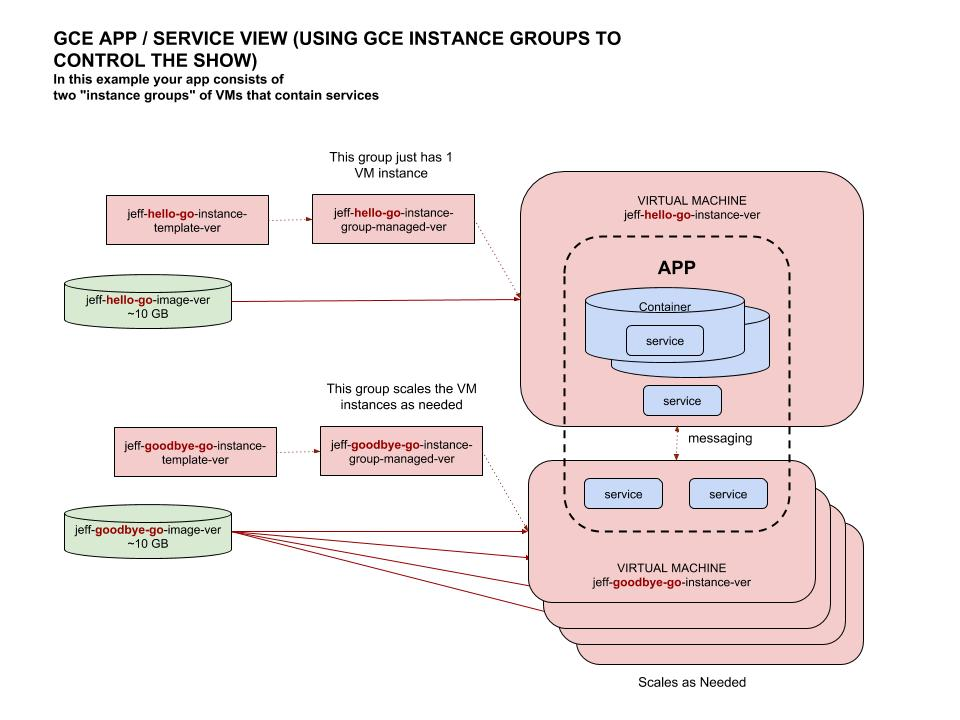
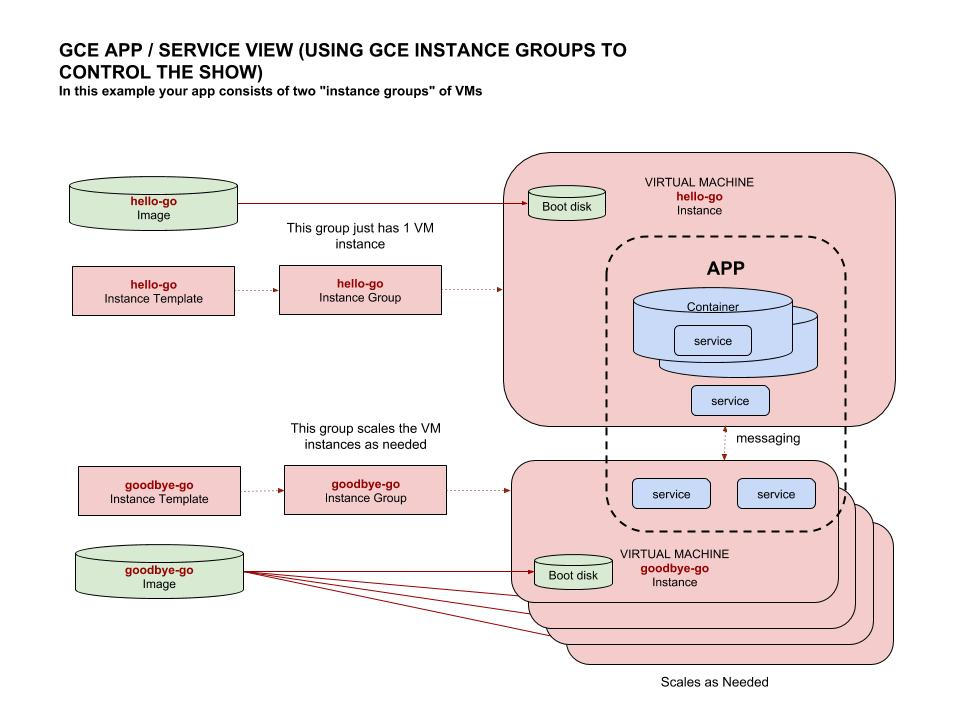
updated gce

diff --git a/software/infrastructure-as-a-service/cloud-services-compute/google-cloud-platform-cheat-sheet/google-compute-engine.md b/software/infrastructure-as-a-service/cloud-services-compute/google-cloud-platform-cheat-sheet/google-compute-engine.md
@@ -3,7 +3,7 @@
 `google compute engine (gce)` _which is part of
 [gcp](https://github.com/JeffDeCola/my-cheat-sheets/tree/master/software/infrastructure-as-a-service/cloud-services-compute/google-cloud-platform-cheat-sheet)
 provides high performance scalable Virtual Machine (VM) instances
-that you can use to run a App/service._
+that you can use to run an App/service._
 
 Documentation and reference,
 
@@ -17,7 +17,7 @@ Documentation and reference,
 * [Quickstart using console](https://cloud.google.com/compute/docs/quickstart-linux)
 * [Google Compute Engine SDK Reference (gcloud compute)](https://cloud.google.com/sdk/gcloud/reference/compute/)
 * A list of
-  [Basic gce commands](https://github.com/JeffDeCola/my-cheat-sheets/tree/master/software/infrastructure-as-a-service/cloud-services-compute/google-compute-engine-cheat-sheet#basic-gce-commands)
+  [basic gce commands](https://github.com/JeffDeCola/my-cheat-sheets/blob/master/software/infrastructure-as-a-service/cloud-services-compute/google-cloud-platform-cheat-sheet/google-compute-engine.md#gce-basic-gcloud-commands)
   I like.
 
 My Repo example is [hello-go-deploy-gce](https://github.com/JeffDeCola/hello-go-deploy-gce).
@@ -54,13 +54,15 @@ As of my last update, there is a free
   * You can send up to `1GB of egress traffic`, in aggregate,
     to regions except for those in Oceania and China.
 
-Preemptible VM instances are not included in the Google Cloud Platform Free Tier.
+Preemptible VM instances (VMs that can be shut down by google at any moment)
+are not included in the Free Tier.
 
 Full list of [free gcp services](https://cloud.google.com/free/docs/gcp-free-tier).
 
 ## DIFFERENCE BETWEEN GAE
 
-Some main differences between `google apps engine`,
+Some main differences between `google app engine`
+and `google compute engine`,
 
 * [google app engine (gae)](https://github.com/JeffDeCola/my-cheat-sheets/tree/master/software/infrastructure-as-a-service/cloud-services-compute/google-cloud-platform-cheat-sheet/google-app-engine.md)
   * PaaS
@@ -151,16 +153,17 @@ There are four main section of gce:
 * `INSTANCE GROUPS` - Deploys and scales VM instances.
 * `INSTANCES` (DISKS) - A deployed `image` (your VM instance).
 
-The goal is to deploy an `image` to make a running VM instance(s)
+The goal is to deploy an `image` that creates a VM instance(s)
 (That contains your App/service).
 
-As a high level view, this illustration show how an
-App/service may be running on `gce`.  It shows
-that `instance templates` (deploy and scale VMs) control the show.
+The following illustration shows a high level view on how an
+App/service may be running on `gce`.  AS you can see in this example,
+the VM instances contain services.  It also shows
+`instance groups` control the show (They deploy and scale VM instances).
 
 ![IMAGE -  google compute engine app / service view - IMAGE](../../../../docs/pics/google-compute-engine-app-service-view.jpg)
 
-The following illustration is a more detailed view of,
+The following illustration is a more detailed view of gce,
 
 * The creation of a custom image `jeff-hello-go-image-ver`
   that contains you App/service.
@@ -181,7 +184,7 @@ There are two types of images,
 * `Public images` are provided and maintained by Google,
   open-source communities, and third-party vendors.
 * `Custom images` are available only to your project.
-  You can create a custom image from boot disks or other images.
+  You can create a custom image from `boot disks` or other `images`.
 
 Refer to these cheat sheets for creating a custom image
 (I recommended

diff --git a/software/infrastructure-as-a-service/cloud-services-compute/google-cloud-platform-cheat-sheet/google-app-engine.md b/software/infrastructure-as-a-service/cloud-services-compute/google-cloud-platform-cheat-sheet/google-app-engine.md
@@ -42,7 +42,8 @@ Full list of [free gcp services](https://cloud.google.com/free/docs/gcp-free-tie
 
 ## DIFFERENCE BETWEEN GCE
 
-Some main differences between `google compute engine`,
+Some main differences between `google app engine`
+and `google compute engine`,
 
 * `google app engine (gae)`
   * PaaS
